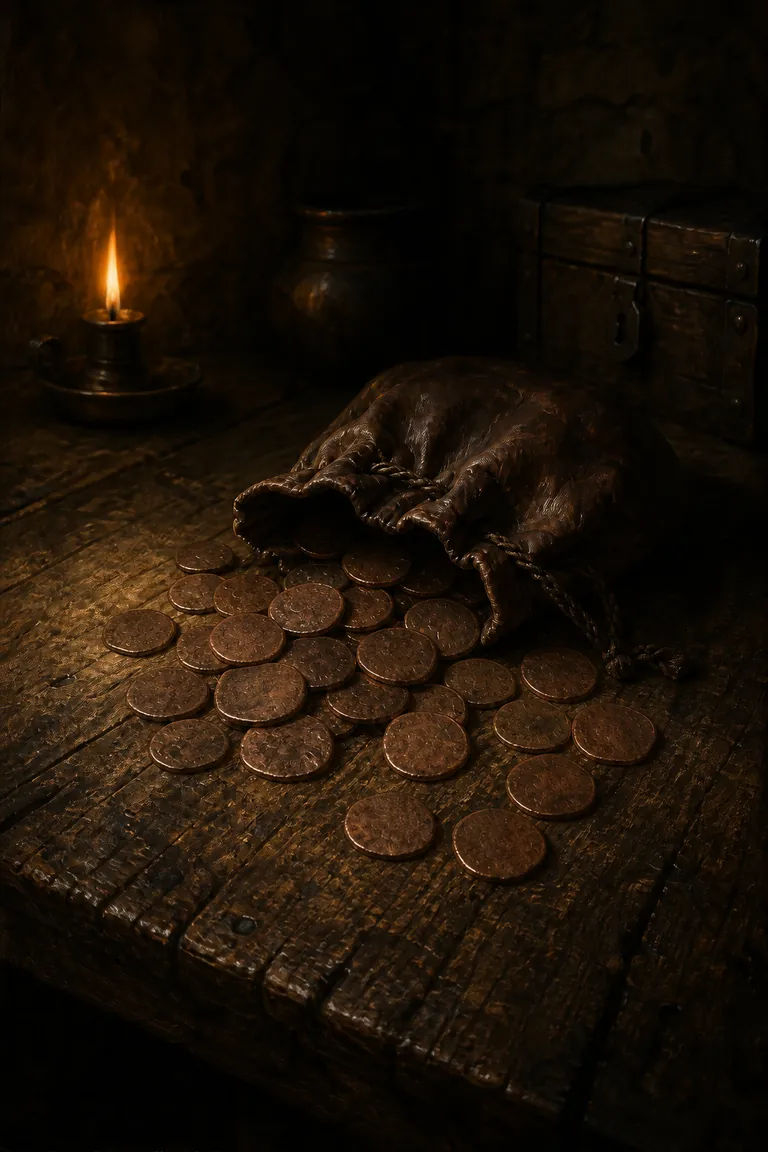
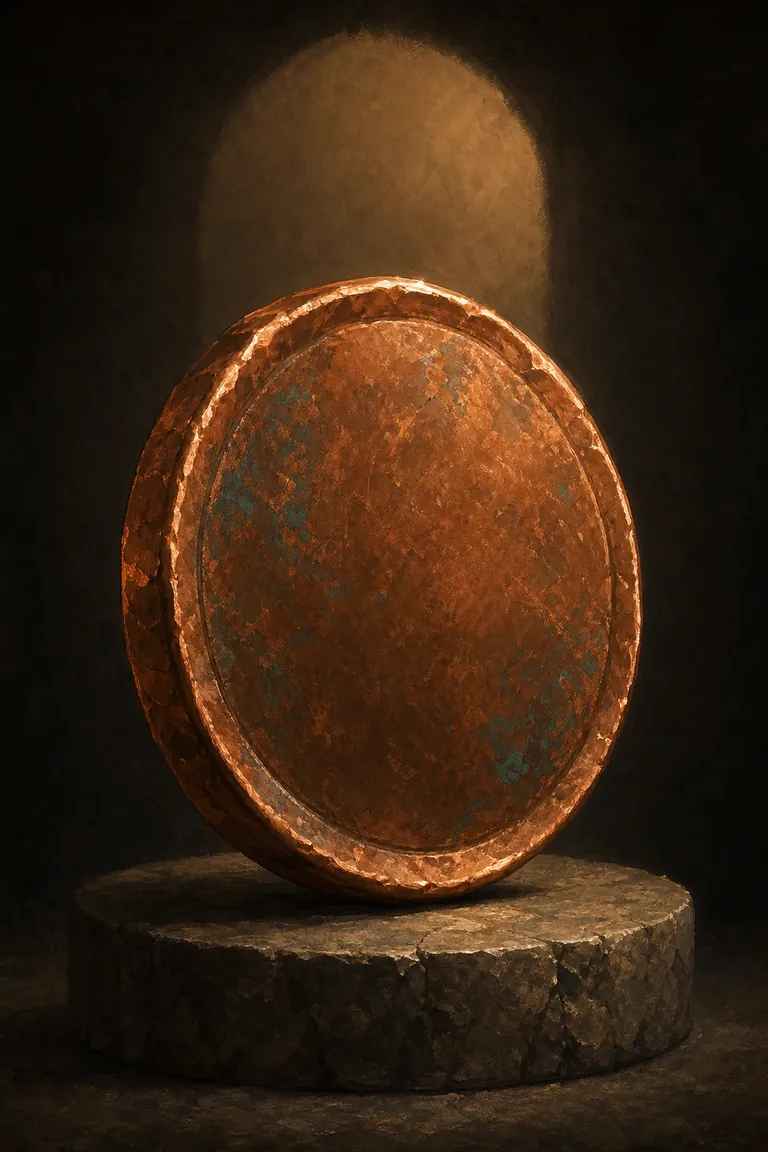
feat: complete single-subject card artwork

diff --git a/frontend-new/src/utils/cardData.ts b/frontend-new/src/utils/cardData.ts
@@ -22,6 +22,7 @@ export const CARD_DATA: Record<string, CardData> = {
     name: { en: 'Silver', zh: '銀幣' },
     type: 'treasure',
     cost: 3,
+    art: '/assets/cards/silver.webp',
     coins: 2,
     tooltip: { en: 'Worth 2 coins', zh: '價值 2 金幣' },
   },
@@ -29,6 +30,7 @@ export const CARD_DATA: Record<string, CardData> = {
     name: { en: 'Gold', zh: '金幣' },
     type: 'treasure',
     cost: 6,
+    art: '/assets/cards/gold.webp',
     coins: 3,
     tooltip: { en: 'Worth 3 coins', zh: '價值 3 金幣' },
   },
@@ -44,6 +46,7 @@ export const CARD_DATA: Record<string, CardData> = {
     name: { en: 'Duchy', zh: '公國' },
     type: 'victory',
     cost: 5,
+    art: '/assets/cards/duchy.webp',
     vp: 3,
     tooltip: { en: 'Worth 3 victory points', zh: '價值 3 分' },
   },
@@ -51,6 +54,7 @@ export const CARD_DATA: Record<string, CardData> = {
     name: { en: 'Province', zh: '行省' },
     type: 'victory',
     cost: 8,
+    art: '/assets/cards/province.webp',
     vp: 6,
     tooltip: { en: 'Worth 6 victory points', zh: '價值 6 分' },
   },
@@ -58,6 +62,7 @@ export const CARD_DATA: Record<string, CardData> = {
     name: { en: 'Curse', zh: '詛咒' },
     type: 'curse',
     cost: 0,
+    art: '/assets/cards/curse.webp',
     vp: -1,
     tooltip: { en: 'Worth -1 victory point', zh: '價值 -1 分' },
   },
@@ -65,6 +70,7 @@ export const CARD_DATA: Record<string, CardData> = {
     name: { en: 'Cellar', zh: '地窖' },
     type: 'action',
     cost: 2,
+    art: '/assets/cards/cellar.webp',
     desc: { en: '+1 Action', zh: '+1 行動' },
     tooltip: { en: 'Discard any number of cards, then draw that many.', zh: '棄掉任意數量的牌，然後抽取等量的牌。' },
   },
@@ -72,6 +78,7 @@ export const CARD_DATA: Record<string, CardData> = {
     name: { en: 'Market', zh: '市集' },
     type: 'action',
     cost: 5,
+    art: '/assets/cards/market.webp',
     desc: { en: '+1 Card, +1 Action, +1 Buy, +1 Coin', zh: '+1 張牌、+1 行動、+1 購買、+1 金幣' },
     tooltip: { en: 'Draw 1 card. +1 Action, +1 Buy, +1 Coin.', zh: '抽 1 張牌。+1 行動、+1 購買、+1 金幣。' },
   },
@@ -87,6 +94,7 @@ export const CARD_DATA: Record<string, CardData> = {
     name: { en: 'Village', zh: '村莊' },
     type: 'action',
     cost: 3,
+    art: '/assets/cards/village.webp',
     desc: { en: '+1 Card, +2 Actions', zh: '+1 張牌、+2 行動' },
     tooltip: { en: 'Draw 1 card. +2 Actions.', zh: '抽 1 張牌。+2 行動。' },
   },
@@ -94,6 +102,7 @@ export const CARD_DATA: Record<string, CardData> = {
     name: { en: 'Workshop', zh: '工坊' },
     type: 'action',
     cost: 3,
+    art: '/assets/cards/workshop.webp',
     desc: { en: 'Gain a card costing up to 4', zh: '獲得一張價值不超過 4 的牌' },
     tooltip: { en: 'Gain a card costing up to 4 coins.', zh: '獲得一張價值不超過 4 金幣的牌。' },
   },
@@ -101,6 +110,7 @@ export const CARD_DATA: Record<string, CardData> = {
     name: { en: 'Militia', zh: '民兵' },
     type: 'action',
     cost: 4,
+    art: '/assets/cards/militia.webp',
     desc: { en: '+2 Coins', zh: '+2 金幣' },
     tooltip: { en: '+2 Coins. Each other player discards down to 3 cards.', zh: '+2 金幣。其他玩家棄牌至 3 張。' },
   },
@@ -108,6 +118,7 @@ export const CARD_DATA: Record<string, CardData> = {
     name: { en: 'Mine', zh: '礦山' },
     type: 'action',
     cost: 5,
+    art: '/assets/cards/mine.webp',
     desc: { en: 'Upgrade a Treasure', zh: '升級寶物牌' },
     tooltip: { en: 'Trash a Treasure from hand. Gain a Treasure costing up to 3 more to hand.', zh: '從手牌中移除一張寶物牌，獲得一張價值不超過多 3 的寶物牌到手牌。' },
   },
@@ -115,6 +126,7 @@ export const CARD_DATA: Record<string, CardData> = {
     name: { en: 'Moat', zh: '護城河' },
     type: 'action',
     cost: 2,
+    art: '/assets/cards/moat.webp',
     desc: { en: '+2 Cards', zh: '+2 張牌' },
     tooltip: { en: 'Draw 2 cards. Reaction: Reveal to block attacks.', zh: '抽 2 張牌。反應：展示以阻擋攻擊。' },
   },
@@ -122,6 +134,7 @@ export const CARD_DATA: Record<string, CardData> = {
     name: { en: 'Remodel', zh: '改造' },
     type: 'action',
     cost: 4,
+    art: '/assets/cards/remodel.webp',
     desc: { en: 'Trash & Gain', zh: '移除並獲得' },
     tooltip: { en: 'Trash a card from hand. Gain a card costing up to 2 more.', zh: '從手牌移除一張牌，獲得一張價值不超過多 2 的牌。' },
   },
@@ -129,6 +142,7 @@ export const CARD_DATA: Record<string, CardData> = {
     name: { en: 'Woodcutter', zh: '樵夫' },
     type: 'action',
     cost: 3,
+    art: '/assets/cards/woodcutter.webp',
     desc: { en: '+1 Buy, +2 Coins', zh: '+1 購買、+2 金幣' },
     tooltip: { en: '+1 Buy, +2 Coins.', zh: '+1 購買、+2 金幣。' },
   },

diff --git a/frontend-new/src/utils/cardData.test.ts b/frontend-new/src/utils/cardData.test.ts
@@ -17,33 +17,36 @@ describe('card artwork metadata', () => {
     expect(getCardTextureKey('Smithy')).toBe('card-art-smithy');
   });
 
-  it('returns no path for a card without configured artwork', () => {
-    expect(getCardArtPath('Village')).toBeUndefined();
+  it('returns no path for an unknown card', () => {
+    expect(getCardArtPath('Unknown')).toBeUndefined();
   });
 
-  it('configures only the accepted pilot assets', () => {
+  it('configures artwork for the complete base set', () => {
     expect(getConfiguredCardArt().map(({ cardName }) => cardName)).toEqual([
       'Copper',
+      'Silver',
+      'Gold',
       'Estate',
+      'Duchy',
+      'Province',
+      'Curse',
+      'Cellar',
+      'Market',
       'Smithy',
+      'Village',
+      'Workshop',
+      'Militia',
+      'Mine',
+      'Moat',
+      'Remodel',
+      'Woodcutter',
     ]);
   });
 
-  it('maps Copper to an existing public WebP', () => {
-    const path = getCardArtPath('Copper');
-    expect(path).toBe('/assets/cards/copper.webp');
-    expect(publicAssetExists(path!)).toBe(true);
-  });
-
-  it('maps Estate to an existing public WebP', () => {
-    const path = getCardArtPath('Estate');
-    expect(path).toBe('/assets/cards/estate.webp');
-    expect(publicAssetExists(path!)).toBe(true);
-  });
-
-  it('maps Smithy to an existing public WebP', () => {
-    const path = getCardArtPath('Smithy');
-    expect(path).toBe('/assets/cards/smithy.webp');
-    expect(publicAssetExists(path!)).toBe(true);
+  it('maps every configured artwork path to an existing public WebP', () => {
+    getConfiguredCardArt().forEach(({ cardName, path }) => {
+      expect(path).toBe(`/assets/cards/${cardName.toLowerCase()}.webp`);
+      expect(publicAssetExists(path)).toBe(true);
+    });
   });
 });
